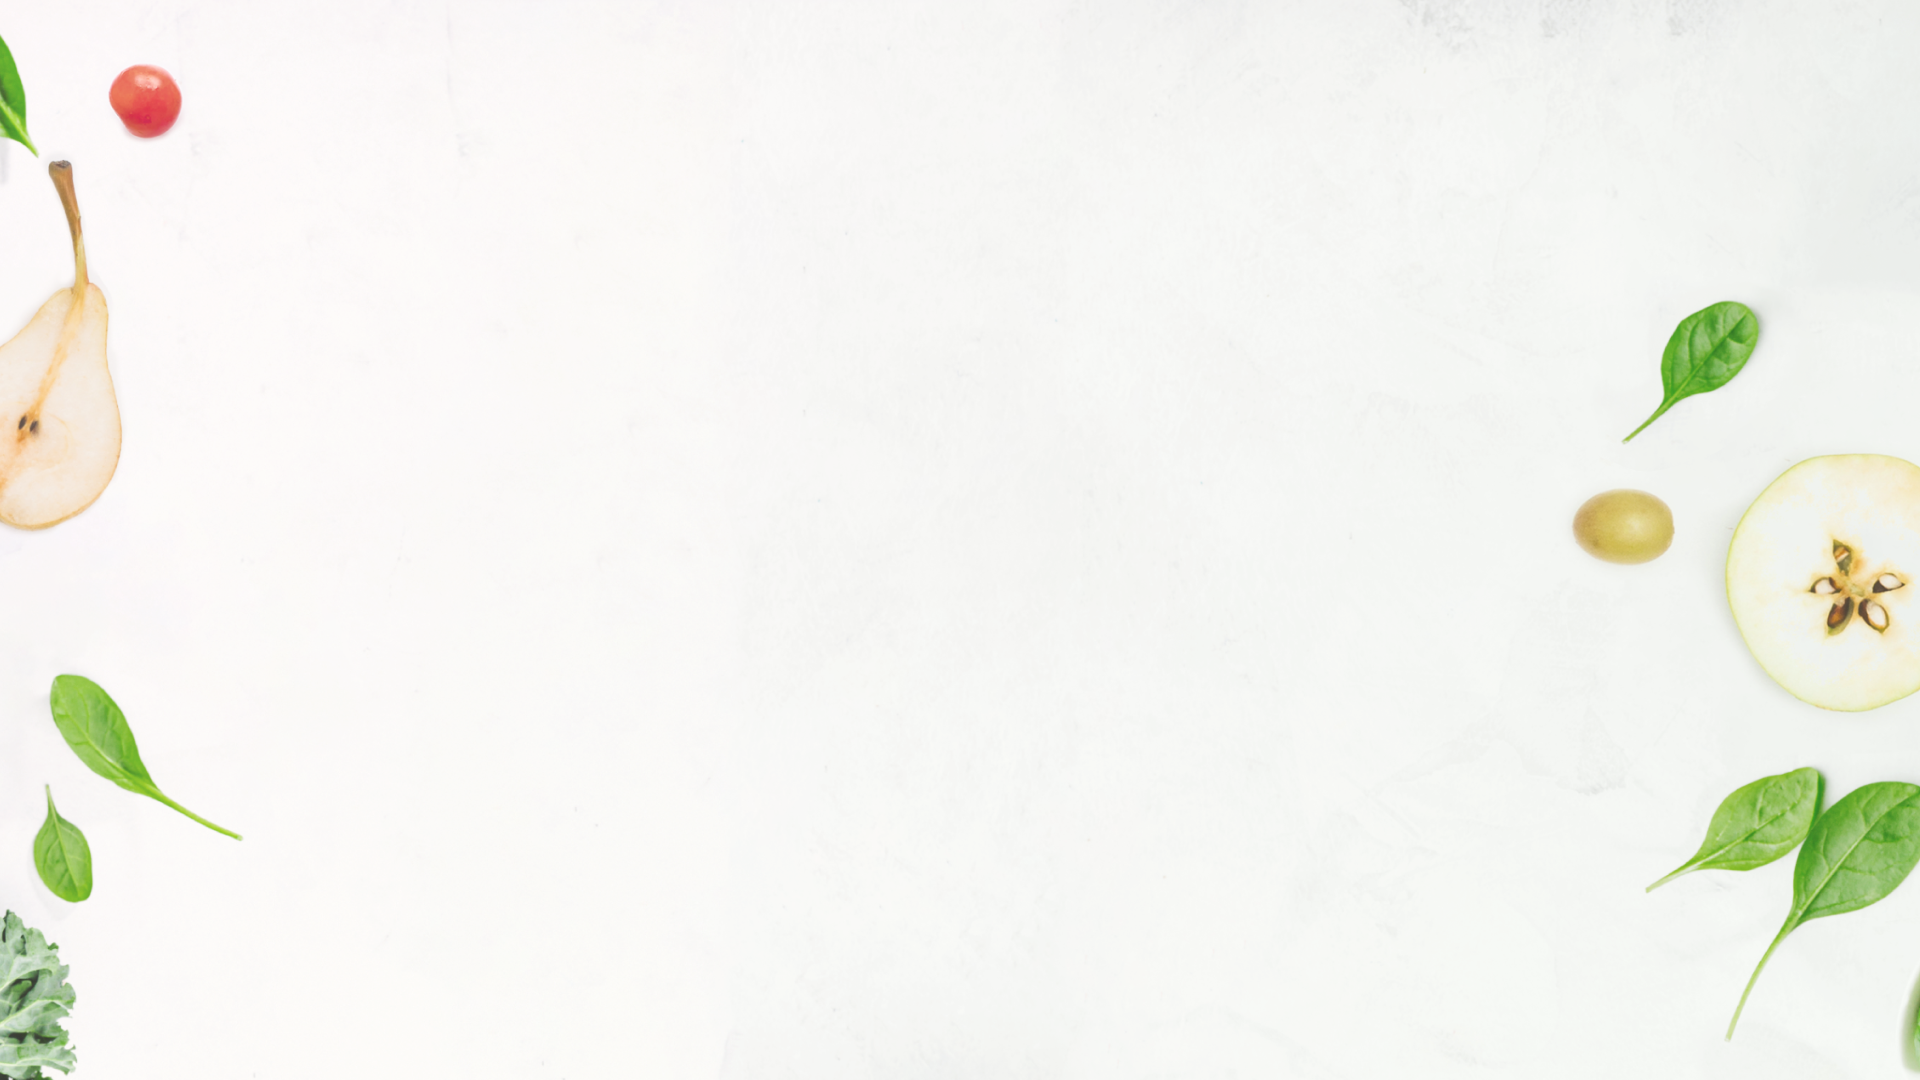
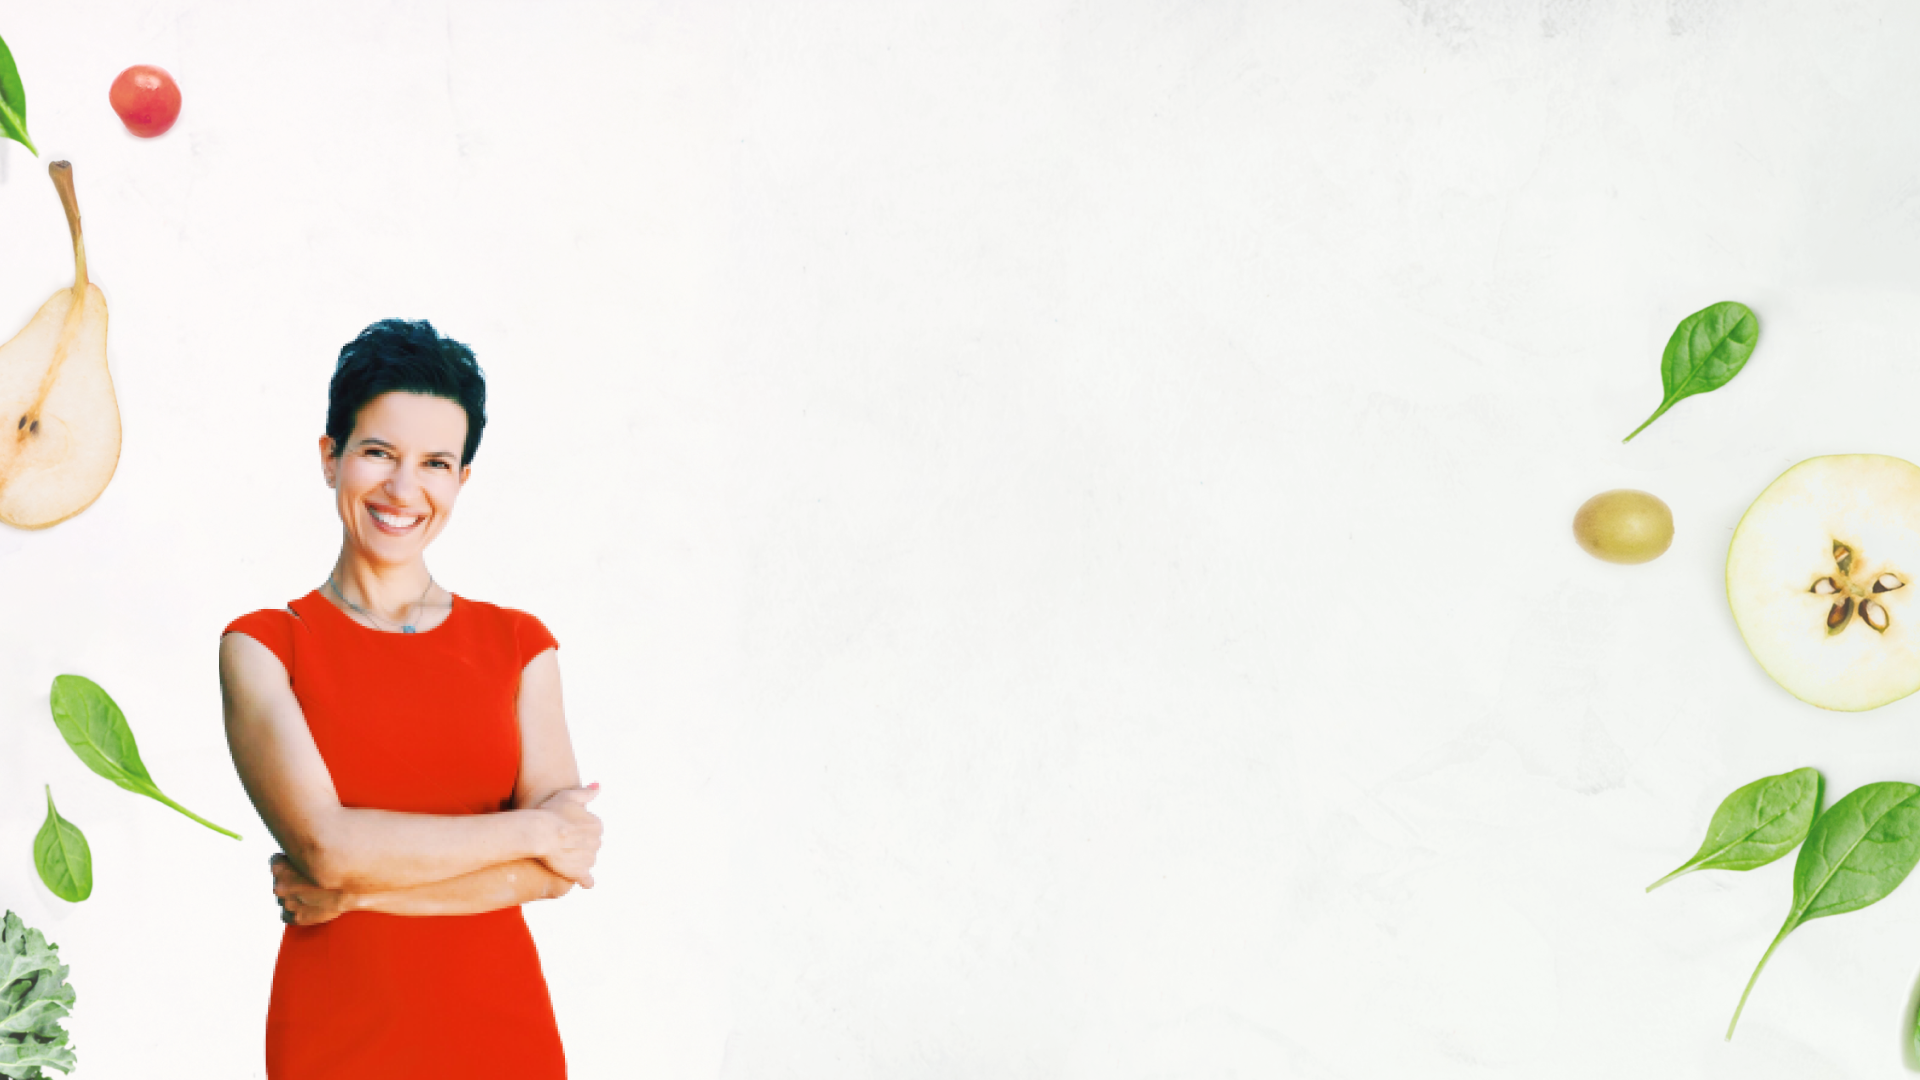
added new image and change first screen on tablet

Changed region(s): [[0.0938, 0.275, 0.3125, 1.0]]

diff --git a/index.html b/index.html
@@ -61,8 +61,8 @@
             </div>
         </div>
         <div class="container">
-            <div class="row">
-                <div class="col-12 col-md-2 col-xl-4 align-self-end order-2 order-md-0">
+            <div class="row justify-content-end">
+                <div class="col-12 col-sm-10 col-md-2 col-xl-4 align-self-end order-2 order-md-0">
                     <div class="btn-play open-popup" data-src="https://www.youtube.com/embed/l5T5T8aoRnc">
                         <img src="icons/btn-play.svg" alt="">
                         <span>Видео-знакомство</span>
@@ -70,22 +70,25 @@
                             <br>знакомиться!</div>
                     </div>
                 </div>
-                <div class="col-12 col-md-5 col-xl-4">
+                <div class="col-8 col-sm-10 col-md-5 col-xl-4">
                     <div class="header__text wow fadeIn fs-24 text-center" data-wow-duration="0.5s">
                         <h1 class="header__title wow fadeInDown" data-wow-duration="0.5s">Детокс <br class="no">-
                             Стройность -<br class="no"> Молодость
                         </h1>
-                        <p>Программа естественного
+                        <p class="d-none d-md-block px-2">Программа естественного
                             омоложения с клубной системой доступа от <a href="#" class="color-green open-popup"
                                 data-src="https://www.youtube.com/embed/l5T5T8aoRnc"><b>Иры Трилевич</b></a></p>
-                        <p>Для тех, кто хочет
+                        <p class="d-block d-md-none">Программа естественного
+                            омоложения с <br> <a href="#" class="color-green open-popup"
+                            data-src="https://www.youtube.com/embed/l5T5T8aoRnc"><b>Иры Трилевич</b></a></p>
+                        <p class="d-none d-lg-block">Для тех, кто хочет
                             <b class="text-uppercase">БЫСТРО И НА ДОЛГИЕ ГОДЫ</b>
                             обрести легкость, молодость
                             и отличное самочувствие!
                         </p>
                     </div>
                 </div>
-                <div class="col-12 col-md-5 col-xl-4 order-2 order-md-2 ">
+                <div class="col-12 col-sm-8 col-md-5 col-xl-4 order-2 order-md-2 ">
                     <div class="header__cards  wow fadeIn" data-wow-duration="0.5s">
                         <div class="header__cards_title title-light-red text-center">
                             <p>Узнать жизненные показатели своего самочувствия</p>
@@ -163,6 +166,11 @@
                     <div class="col-12">
                         <h1 class="cards-recipe__title title-section text-center wow fadeInUp" data-wow-duration="0.5s">
                             Детокс <br class="no">- Стройность -<br class="no"> Молодость</h1>
+                            <p class="cards-recipe__text d-lg-none d-block">Для тех, кто хочет
+                                <b class="text-uppercase">БЫСТРО И НА ДОЛГИЕ ГОДЫ</b>
+                                обрести легкость, молодость
+                                и отличное самочувствие!
+                            </p>
                     </div>
                     <div class="cards-recipe__box d-flex fs-24">
                         <div class="cards-recipe__item">

diff --git a/css/responsive.css b/css/responsive.css
@@ -344,7 +344,7 @@
         font-size: 15px;
     }
     .header {
-        background: url(../image/banner-first-screen-768.png) no-repeat center right / cover;
+        background: url(../image/banner-first-screen-768.png) no-repeat center left -170px / cover;
     }
     .menu li {
         margin-right: 2.6rem;
@@ -530,6 +530,12 @@
     .modal-body .modal-image {
         bottom: -2.7rem;
     }
+
+    .cards-recipe__text {
+        width: 70%;
+        text-align: center;
+        margin: 0 auto 2rem;
+    }
 }
 
 @media only screen and (max-width: 767.8px) {
@@ -553,7 +559,7 @@
         -webkit-box-shadow: 0px 2px 9px #94C27C;
         box-shadow: 0px 2px 9px #94C27C;
         border-radius: 40px;
-        width: 80%;
+        width: 90%;
         min-width: 14.8rem;
         padding: 0.8rem 1.2rem;
         margin: 1.2rem 0;
@@ -562,6 +568,7 @@
         color: #fff;
         text-align: center;
         position: relative;
+        margin-left: auto;
     }
     .btn-play::after {
         content: '';
@@ -908,6 +915,9 @@
     .popup-video-open .modal-body .video-open {
         height: 20rem;
     }
+    .header {
+        background: url(../image/banner-first-screen-568.png) no-repeat top center/ cover;
+    }
 }
 
 @media only screen and (max-width: 575.8px) {
@@ -927,14 +937,20 @@
         padding: 0;
     }
     .header {
-        background: url(../image/banner-first-screen-768.png) no-repeat top right -50px;
-        background-size: 1050px;
+        background-size: contain;
+        background-position: top -90px left;
         padding-bottom: 0;
     }
     .btn-play {
         padding: 1.2rem 1rem 1.2rem 1.8rem;
         text-align: left;
-        margin: 1.2rem auto;
+        margin: 3.6rem auto 1rem;
+    }
+    .header__title {
+        font-size: 1.8rem;
+        line-height: 3rem;
+        margin-bottom: 0;
+        margin-top: 2rem;
     }
     .header__cards-content {
         padding: 3rem 2rem 4rem;
@@ -1218,6 +1234,9 @@
     .price__conditions li::after,
     .price__conditions li::before {
         display: none;
+    }
+    .cards-recipe__text {
+        width: 100%;
     }
 }
 
